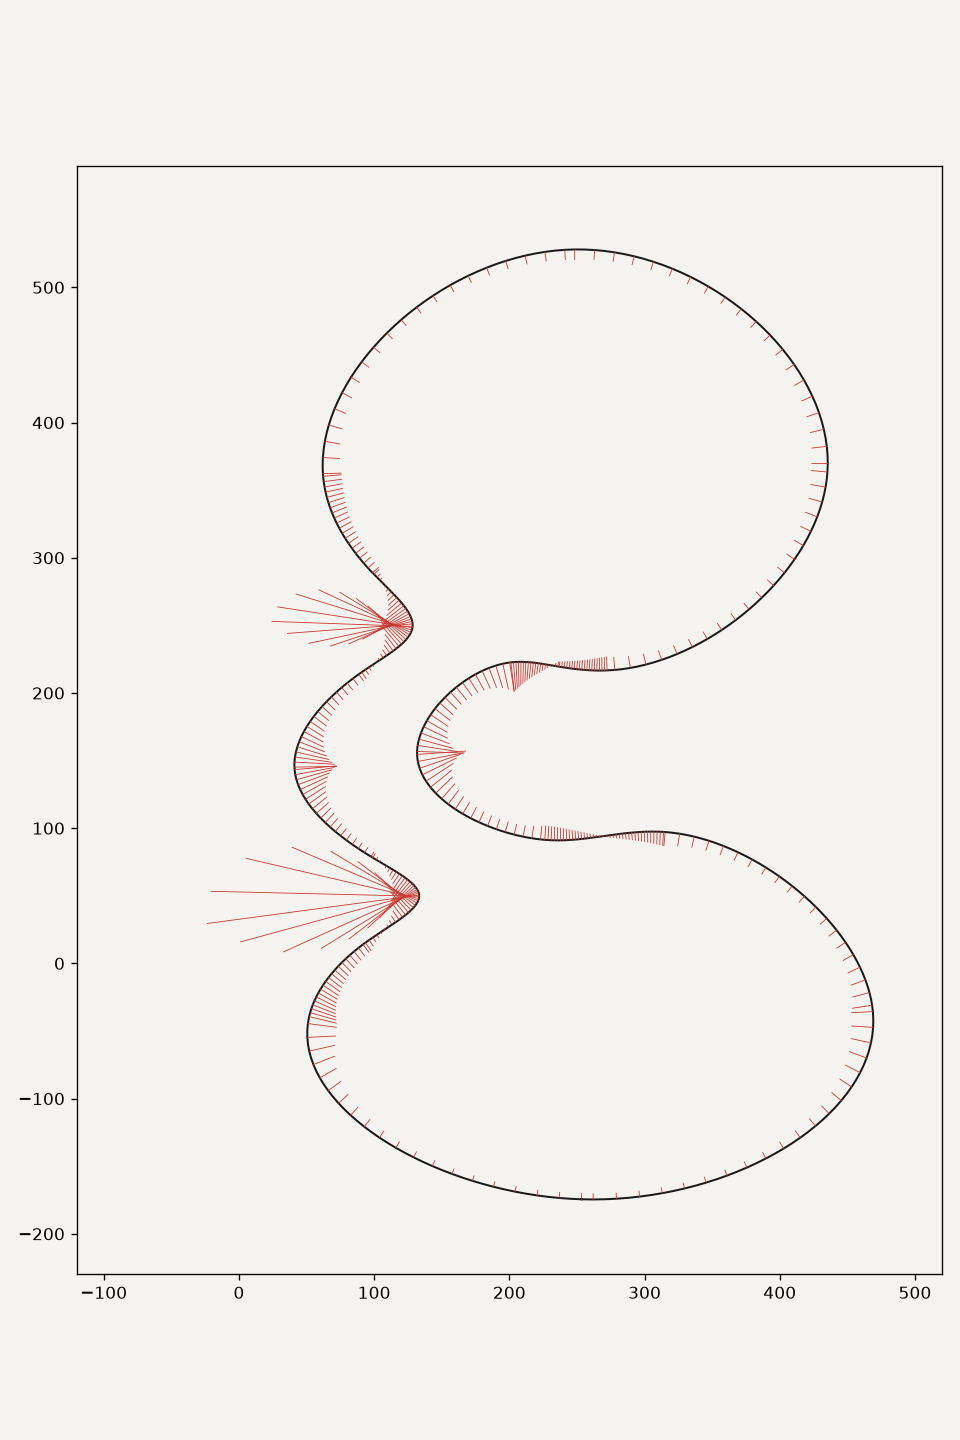
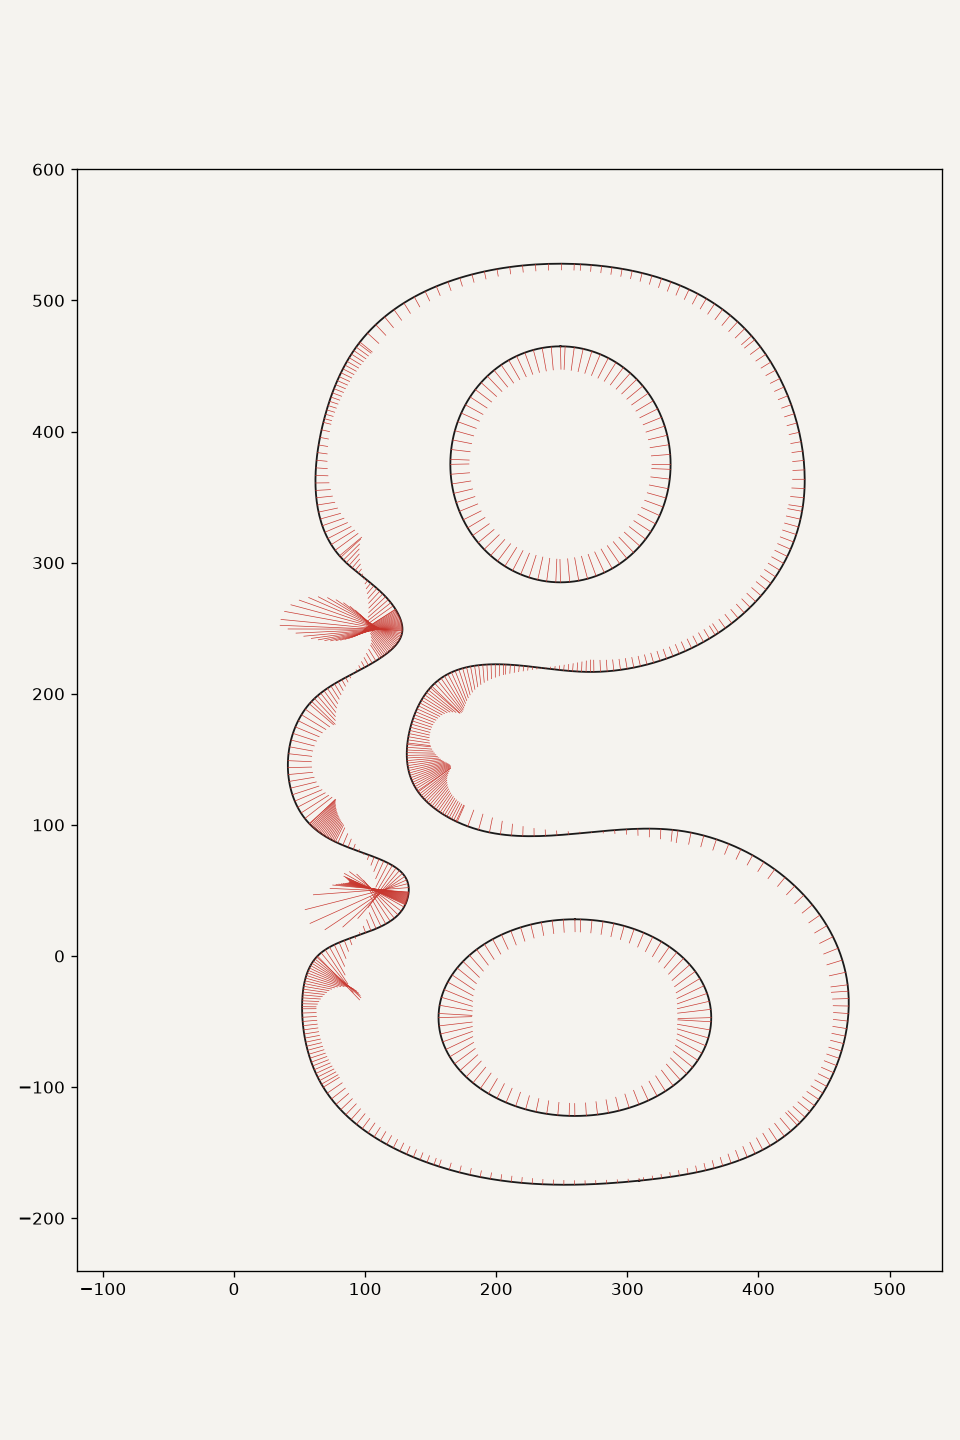
Make the g pristine: gentle pinches, smooth ovals, curvature reviewed
Full bezier review before moving on.
- Counters: clean 4-point kappa ovals, curvature jump = 0 (pristine).
- Outer: the C2 re-interpolation had overshot the pinch tips to radius ~8
  (a curvature spike). Convert the smoothing spline DIRECTLY to beziers via
  PPoly instead, preserving its own gentle shape: pinch radius back to ~15,
  max curvature jump 0.0004, no overshoot.
Whole letter is now curvature-continuous and lump-free end to end.

Claude-Session: https://claude.ai/code/session_01AufTLR6FUSxSFH28PcLESA

diff --git a/aqua-kit/engine/fit_extrema.py b/aqua-kit/engine/fit_extrema.py
@@ -2,8 +2,40 @@
 joined by cubic beziers with axis-aligned, kappa-scaled symmetric handles.
 Few points, on-curve at the extremes: clean type-design curves."""
 import numpy as np
-from scipy.interpolate import splprep, splev, CubicSpline
+from scipy.interpolate import splprep, splev, CubicSpline, PPoly
 K = 0.5523
+
+
+def fit_smooth(contour, s):
+    """Smooth the contour then convert the smoothing spline DIRECTLY to beziers
+    (one per knot interval) via PPoly. Preserves the spline's own gentle shape
+    and C2 continuity exactly — no re-interpolation overshoot at tight turns."""
+    P = flatten(contour)
+    if np.allclose(P[0], P[-1]):
+        P = P[:-1]
+    tck, _ = splprep([P[:, 0], P[:, 1]], s=s, per=1)
+    t, c, k = tck
+    ppx = PPoly.from_spline((t, c[0], k))
+    ppy = PPoly.from_spline((t, c[1], k))
+    bps = ppx.x
+    lo, hi = t[k], t[-k - 1]
+    xs = np.unique(bps[(bps >= lo - 1e-9) & (bps <= hi + 1e-9)])
+    p0 = np.array([float(ppx(xs[0])), float(ppy(xs[0]))])
+    out = [["m", round(p0[0], 2), round(p0[1], 2)]]
+    for a, b in zip(xs[:-1], xs[1:]):
+        du = b - a
+        if du <= 1e-9:
+            continue
+        pa = np.array([float(ppx(a)), float(ppy(a))])
+        pb = np.array([float(ppx(b)), float(ppy(b))])
+        da = np.array([float(ppx(a, 1)), float(ppy(a, 1))])
+        db = np.array([float(ppx(b, 1)), float(ppy(b, 1))])
+        c1 = pa + da * du / 3.0
+        c2 = pb - db * du / 3.0
+        out.append(["c", round(float(c1[0]), 2), round(float(c1[1]), 2),
+                    round(float(c2[0]), 2), round(float(c2[1]), 2),
+                    round(float(pb[0]), 2), round(float(pb[1]), 2)])
+    return out, len(out) - 1
 
 def flatten(contour, per=28):
     pts, cur = [], None

diff --git a/aqua-kit/engine/polish_g.py b/aqua-kit/engine/polish_g.py
@@ -15,7 +15,7 @@ Writes g_polished_outline.json, which aquascript.py embeds as the g.
 """
 import json
 import numpy as np
-from fit_extrema import fit
+from fit_extrema import fit, fit_smooth
 
 K = 0.5523
 
@@ -45,7 +45,7 @@ def signed_area(A):
 contours = json.load(open("g_real_outline.json"))
 outer = max(contours, key=len)
 
-outer_c, n_anchors = fit(outer, s=900.0)
+outer_c, n_anchors = fit_smooth(outer, s=900.0)
 A = np.array([[s[-2], s[-1]] for s in outer_c])
 cc = not (signed_area(A) > 0)                  # counters wind opposite outer
 
